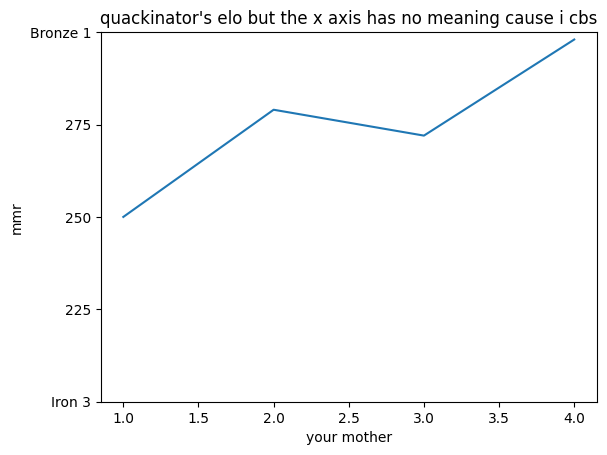
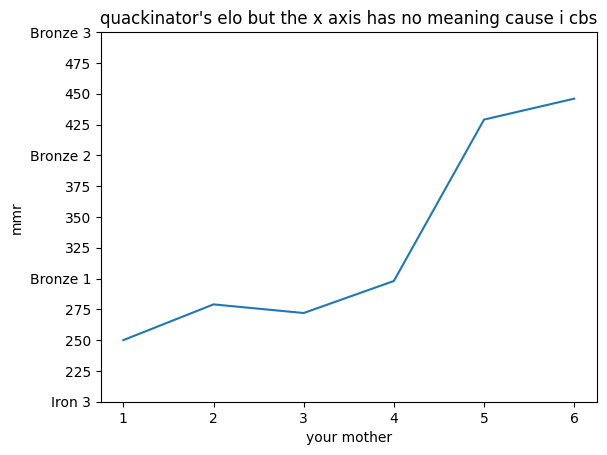
elo history updates and progress with ritsu rewrite

diff --git a/ritsutoo.py b/ritsutoo.py
@@ -1,11 +1,11 @@
 import discord
 from discord.ext import commands
 import configparser
-import random
+import valorant
 
 def get_config():
     c = configparser.ConfigParser()
-    c.read('/home/ubuntu/discord_bot/config.ini')
+    c.read('config.ini')
 
     return c['discord']['token2']
 
@@ -21,9 +21,11 @@ async def on_ready():
 async def ping(ctx):
     await ctx.send(f'bong {round(client.latency * 1000)} ms')
 
-@client.command(aliases = ['8ball', 'balls'])
-async def _8ball(ctx, *, question):
-    responses = ['no', 'your mother', 'no', 'balls']
-    await ctx.send(f'question: {question}\nAns: {random.choice(responses)}')
+@client.command()
+async def elolist(ctx, *, username):
+
+    username = username.lower()
+    elolist = valorant.get_elolist(username)
+    await ctx.send("```\n" + elolist + "\n```")
 
 client.run(token)
